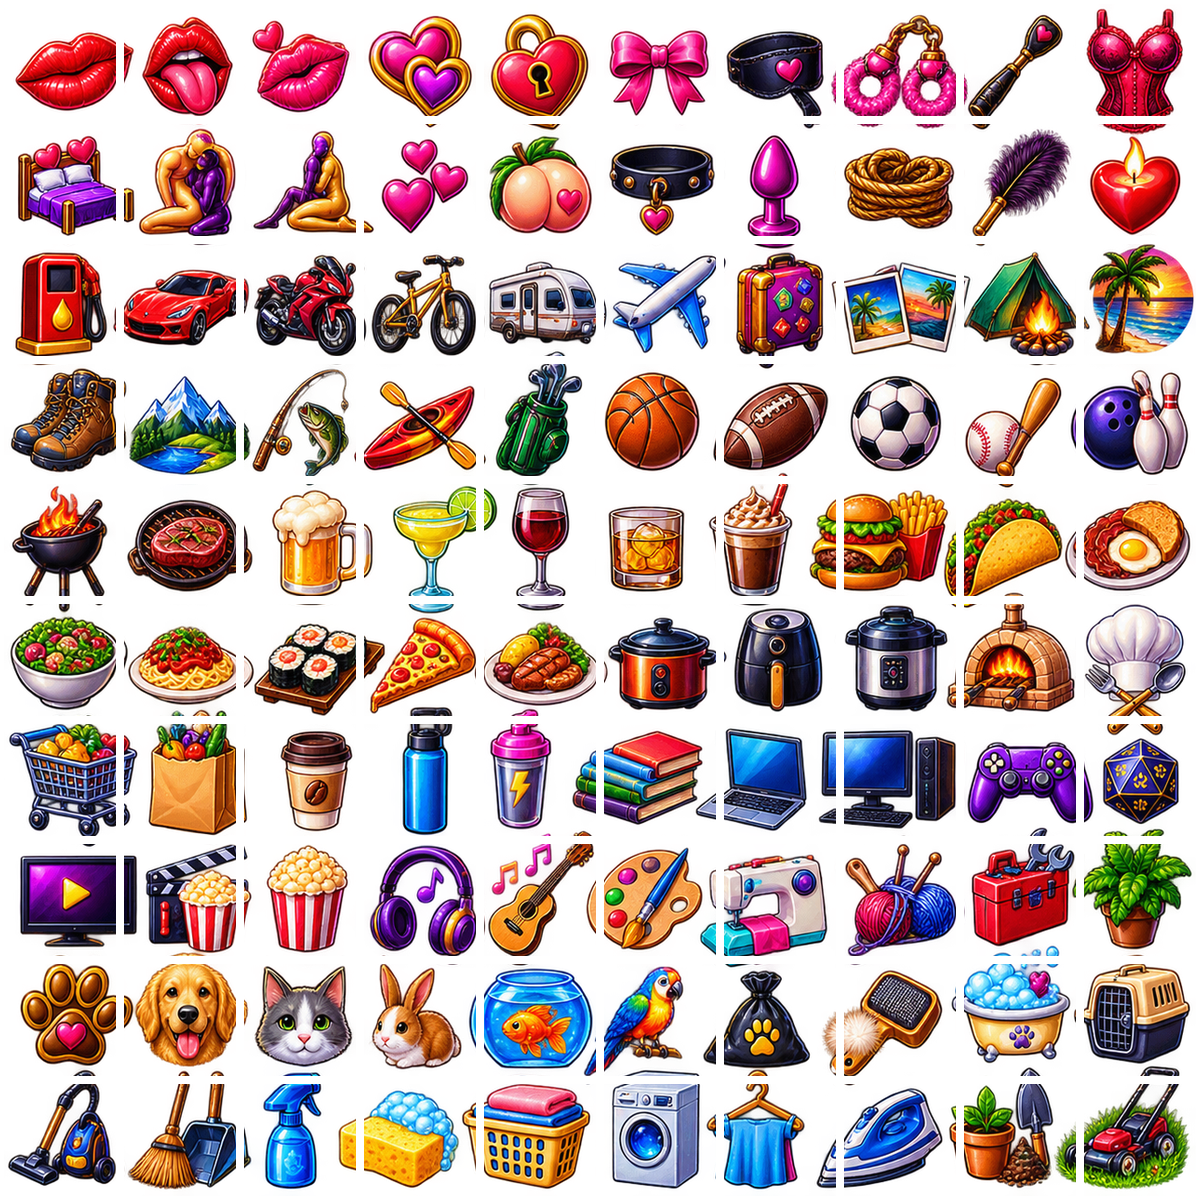
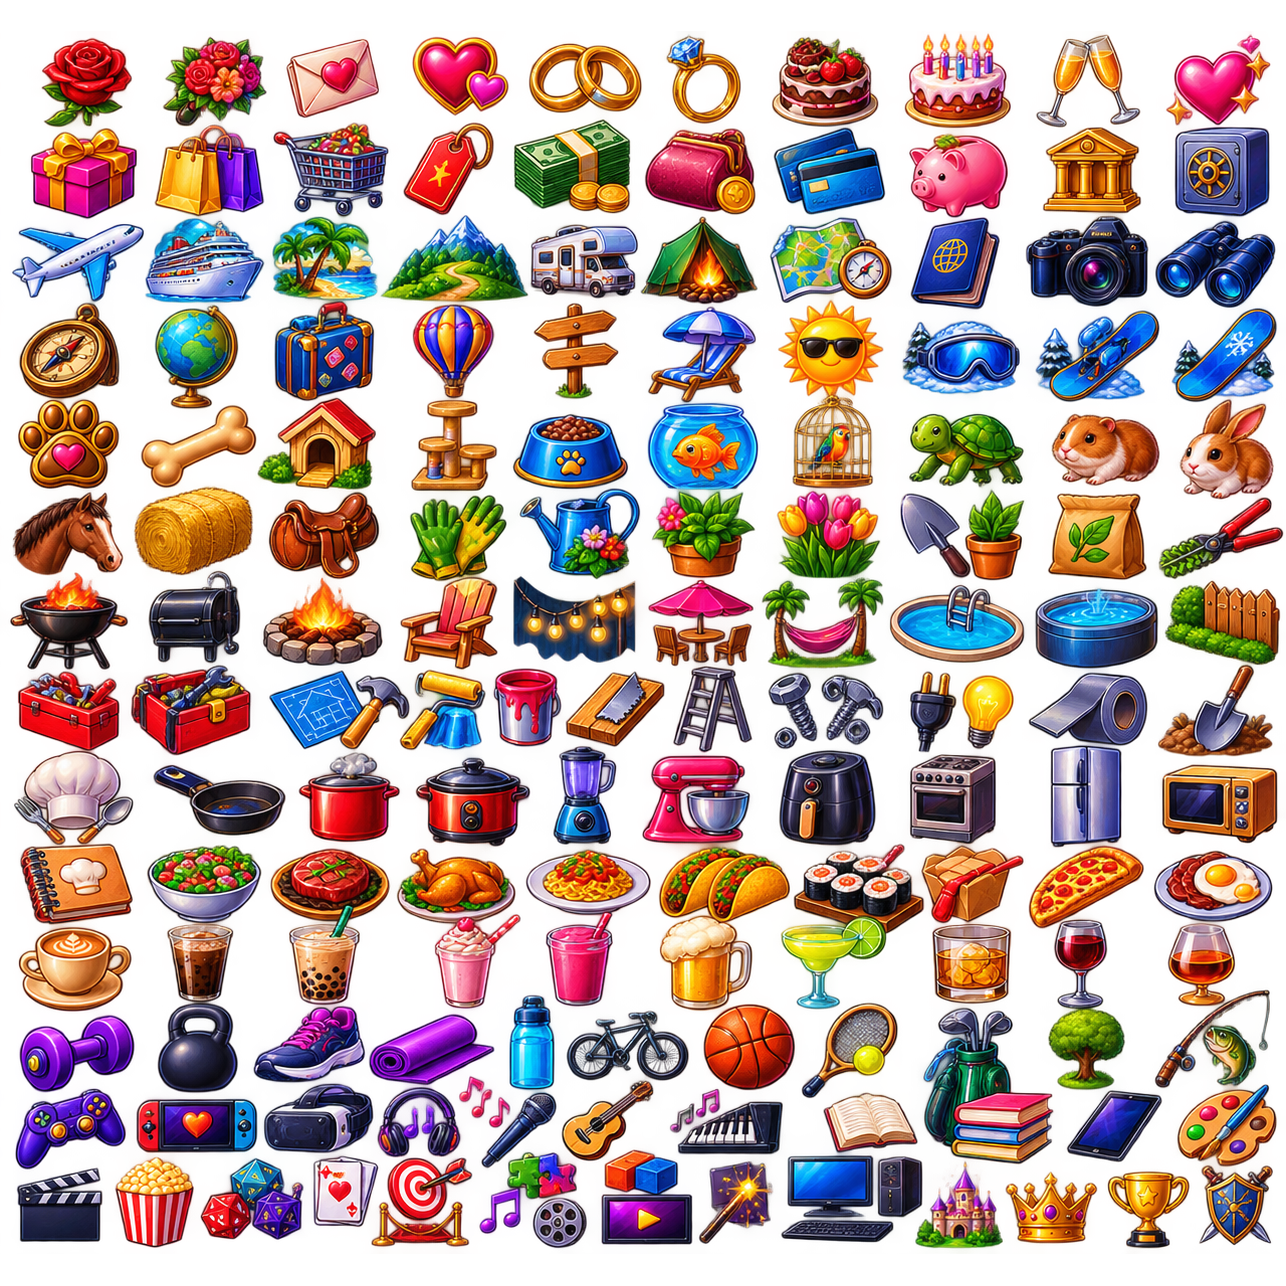
Add files via upload

diff --git a/index.html b/index.html
@@ -473,4 +473,62 @@ const v16OldSettingsView=settingsView;
 settingsView=function(){return v16OldSettingsView().replace(/V1\.5\.0/g,'V1.6.0')+`<section class="card section"><h2>What's New • V1.6.0</h2><p class="muted tiny">Drag-and-resize atlas icon crops, accurate previews, reusable crop picker for tasks and goal milestones, coupon icon selection and editing, special one-time coupon purchase limits.</p></section>`};
 // Ensure the new renderer is used immediately on initial load.
 render();
-</script></body></html>
+</script>
+<script>
+/* Our Quest v1.7.0: four clean transparent atlases and free-position crop editor */
+const V17_PAGES=[
+ {id:'everyday',name:'Everyday Adventures · Clean',src:'assets/everyday-adventures-atlas.png',builtin:true},
+ {id:'more-adventures',name:'More Adventures · Clean',src:'assets/more-adventures-atlas.png',builtin:true},
+ {id:'life-adventures',name:'Life & Adventures · Clean',src:'assets/life-adventures-atlas.png',builtin:true},
+ {id:'grand-adventures',name:'Grand Adventures · New',src:'assets/grand-adventures-atlas.png',builtin:true}
+];
+for(const p of V17_PAGES){
+ const existing=data.atlasPages.find(a=>a.id===p.id);
+ if(existing)Object.assign(existing,p);else data.atlasPages.push({...p});
+ atlasSources[p.id]=p.src;
+}
+// Maintain existing crop references. New atlas pages are added without resetting tasks or coupons.
+save();
+// Allow user-uploaded free-position atlases without an artificial 10x10 restriction.
+uploadAtlas=async function(e){
+ if(!isAdmin())return;
+ const file=e.target.files?.[0];if(!file)return;
+ if(!file.type.startsWith('image/'))return notify('Choose a PNG, WebP or JPEG image');
+ try{
+  const bmp=await createImageBitmap(file);
+  const side=Math.min(2048,Math.max(bmp.width,bmp.height));
+  const c=document.createElement('canvas');c.width=c.height=side;
+  const ctx=c.getContext('2d');
+  const scale=side/Math.max(bmp.width,bmp.height);
+  ctx.drawImage(bmp,(side-bmp.width*scale)/2,(side-bmp.height*scale)/2,bmp.width*scale,bmp.height*scale);
+  bmp.close();
+  const blob=await new Promise(resolve=>c.toBlob(resolve,'image/webp',.92));
+  if(!blob)throw Error('Could not encode image');
+  const name=prompt('Name this icon page',file.name.replace(/\.[^.]+$/,''));
+  if(name===null)return;
+  const id=uid();await atlasStore(id,blob);
+  atlasSources[id]=URL.createObjectURL(blob);
+  data.atlasPages.push({id,name:name.trim()||'New Icon Page',builtin:false});
+  atlasPickerPage=id;save();render();notify('Icon atlas added');
+ }catch(err){notify('Atlas upload failed: '+err.message)}
+};
+// Replace the old atlas grid view completely. The original images contain no overlay grid.
+atlasView=function(){
+ const pg=data.atlasPages.find(p=>p.id===atlasPickerPage)||data.atlasPages[0];
+ return `<div class="row between wrap"><p class="muted">Four built-in icon sheets with no grid lines. Use the movable selection square when assigning icons.</p>${isAdmin()?`<label class="btn" style="cursor:pointer">＋ Upload Icon Sheet<input type="file" accept="image/*" style="display:none" onchange="uploadAtlas(event)"></label>`:''}</div>
+ <div class="card"><h2>▦ Icon Atlas Library (${data.atlasPages.length} pages)</h2>
+ <div class="field"><label>Icon sheet</label><select onchange="atlasPickerPage=this.value;render()">${data.atlasPages.map(p=>`<option value="${safe(p.id)}" ${p.id===pg.id?'selected':''}>${safe(p.name)}</option>`).join('')}</select></div>
+ <img src="${atlasSource(pg.id)}" alt="${safe(pg.name)}" style="display:block;width:100%;max-width:700px;margin:auto;border-radius:8px;background:#20162f"/>
+ ${isAdmin()&&!pg.builtin?`<div class="row wrap" style="margin-top:12px"><button class="btn2" onclick="renameAtlas('${pg.id}')">Rename Page</button><button class="btn2" onclick="deleteAtlas('${pg.id}')">Delete Page</button></div>`:''}
+ </div><div class="card section"><h2>How to select icons</h2><p class="muted tiny">In Tasks, Coupons or Goals choose an atlas icon. Tap or drag the gold square over the image, adjust its size and confirm. Uploaded sheets can have any icon arrangement. All built-in sheets are transparent and grid-free.</p></div>`;
+};
+// Correct crop preview math and ensure selection box stays square on normalized atlases.
+const v17PreviousCropHtml=v16CropHtml;
+v16CropHtml=function(){return v17PreviousCropHtml().replace('Works with all three atlas pages and uploaded sheets.','Works with all four built-in atlas pages and uploaded sheets.');};
+const v17PreviousSettingsView=settingsView;
+settingsView=function(){return v17PreviousSettingsView().replaceAll('V1.6.0','V1.7.0')+`<section class="card section"><h2>What's New • V1.7.0</h2><p class="muted tiny">Four transparent, grid-free icon atlases, including Grand Adventures. Improved icon crop selection and flexible image uploads. Existing icon assignments remain available.</p></section>`};
+const v17PreviousRender=render;
+render=function(){v17PreviousRender();document.querySelectorAll('.sidefoot').forEach(el=>el.innerHTML=el.innerHTML.replace(/V1\.6\.0|V1\.5\.0/g,'V1.7.0'));};
+render();
+</script>
+</body></html>

diff --git a/sw.js b/sw.js
@@ -1,4 +1,5 @@
-const CACHE='our-quest-v1-5';
-self.addEventListener('install',event=>event.waitUntil(caches.open(CACHE).then(c=>c.addAll(['./','./index.html','./manifest.webmanifest','./assets/our-quest-icon.png','./assets/everyday-adventures-atlas.png','./assets/more-adventures-atlas.png','./assets/life-adventures-atlas.png'])).then(()=>self.skipWaiting())));
-self.addEventListener('activate',event=>event.waitUntil(Promise.all([caches.keys().then(keys=>Promise.all(keys.filter(k=>k.startsWith('our-quest-')&&k!==CACHE).map(k=>caches.delete(k)))),self.clients.claim()])));
-self.addEventListener('fetch',event=>{if(event.request.method==='GET'&&new URL(event.request.url).origin===self.location.origin)event.respondWith(fetch(event.request).then(response=>{const copy=response.clone();caches.open(CACHE).then(c=>c.put(event.request,copy));return response}).catch(()=>caches.match(event.request)))});
+const CACHE='our-quest-v1-7';
+const CORE=['./','./index.html','./manifest.webmanifest','./assets/our-quest-icon.png','./assets/everyday-adventures-atlas.png','./assets/more-adventures-atlas.png','./assets/life-adventures-atlas.png','./assets/grand-adventures-atlas.png'];
+self.addEventListener('install',e=>e.waitUntil(caches.open(CACHE).then(c=>c.addAll(CORE)).then(()=>self.skipWaiting())));
+self.addEventListener('activate',e=>e.waitUntil(Promise.all([caches.keys().then(keys=>Promise.all(keys.filter(k=>k.startsWith('our-quest-')&&k!==CACHE).map(k=>caches.delete(k)))),self.clients.claim()])));
+self.addEventListener('fetch',e=>{if(e.request.method==='GET'&&new URL(e.request.url).origin===self.location.origin)e.respondWith(fetch(e.request).then(r=>{if(r.ok){const copy=r.clone();caches.open(CACHE).then(c=>c.put(e.request,copy))}return r}).catch(()=>caches.match(e.request)))})

diff --git a/README.md b/README.md
@@ -1,29 +1,15 @@
-# Our Quest V1.6.0 — Local Interactive Prototype
+# Our Quest V1.7.0
 
-Open `index.html` to test, or host the entire folder on the same origin as V1.4. This is not yet a cloud-connected multi-account release.
+## Changes
+- All three original icon sheets replaced with transparent, grid-free source artwork.
+- Fourth sheet Grand Adventures added.
+- Existing free-position icon selection retained for tasks, coupons, goals and milestones.
+- Atlas Library preview no longer draws a fixed 10×10 overlay.
+- Upload icon sheets with flexible layouts and transparent padding.
+- Visible version updated to V1.7.0.
 
-## V1.6 changes
-- Fixed the atlas icon CSS rule that made task icons escape their 44 × 44 pixel thumbnails and cover the screen. Atlas grid cells still use absolute positioning, but other icons are positioned relative to their own clipped containers.
-- Matthew can delete unused coupon definitions. If a coupon has purchase history, it is **archived** from the shop instead, preserving its purchases, wallet entries and usage history. Archived coupons can be restored from the Rewards screen.
-- Each weight goal has a customizable icon selected from the 300-icon atlas. Matthew can edit weight goal titles, descriptions, starting/target weights and ownership.
-- Each weight goal supports multiple milestones, each with a configurable target, reward and icon. Matthew can add, edit and remove milestones. Previously reached milestones retain their completion state when edited.
-- Weight milestone achievements are marked once when the goal owner records progress; milestone rewards are descriptive and do not automatically purchase real-world items.
-- Version labels updated to V1.6.0 and the service worker cache bumped.
+## Installation
+Back up your V1.6 data first. Unzip all files and replace the hosted app files at the same URL. Do not clear browser storage. For an installed PWA, reopen or refresh to retrieve the new assets.
 
-## Updating safely
-1. In V1.4 export a JSON backup first.
-2. Replace hosted files at the **same site URL** to preserve localStorage. Refresh the page.
-3. Open Tasks and verify icon thumbnails stay inside task rows.
-4. Open Goals as Matthew and choose **Edit Goal & Milestones**. Add several milestones, assign atlas icons and save.
-5. Open Rewards as Matthew and delete a coupon. Purchased coupons will be archived rather than erased.
-
-## Known limitations
-The app still simulates both users on a single device. Supabase accounts, private cloud photo storage, push and cross-device sync are not connected. Custom atlas pages are stored in IndexedDB and are not included in the JSON export. Goal rewards are descriptive and do not issue purchases. Export data before upgrading. Visual browser tests may differ by device.
-
-
-## V1.6 additions
-- Adjustable draggable icon crop square. Tap or drag on the original atlas sheet and resize with the slider. The selected icon is a coordinate reference to the existing sheet, not a separate uploaded file.
-- Shared icon crop selector for tasks, weight goals, milestone rewards and coupons.
-- Create or edit coupons with atlas icons and a special one-time purchase restriction.
-- Atlas Library preview no longer overlays a misleading fixed grid.
-- Browser storage only: not synced across devices. Export a JSON backup before upgrading. Atlas uploads remain separately stored in IndexedDB and are not included in the JSON backup.
+## Notes
+This is a local prototype. Supabase synchronization is not connected. The three original sheets are replaced by their existing grid-free source artwork; no generative restoration or inpainting was required. Existing crop references are preserved, but small vertical adjustments may be useful because the artwork was padded to square dimensions. Uploaded custom atlases remain stored in the browser and are not included in JSON exports.
